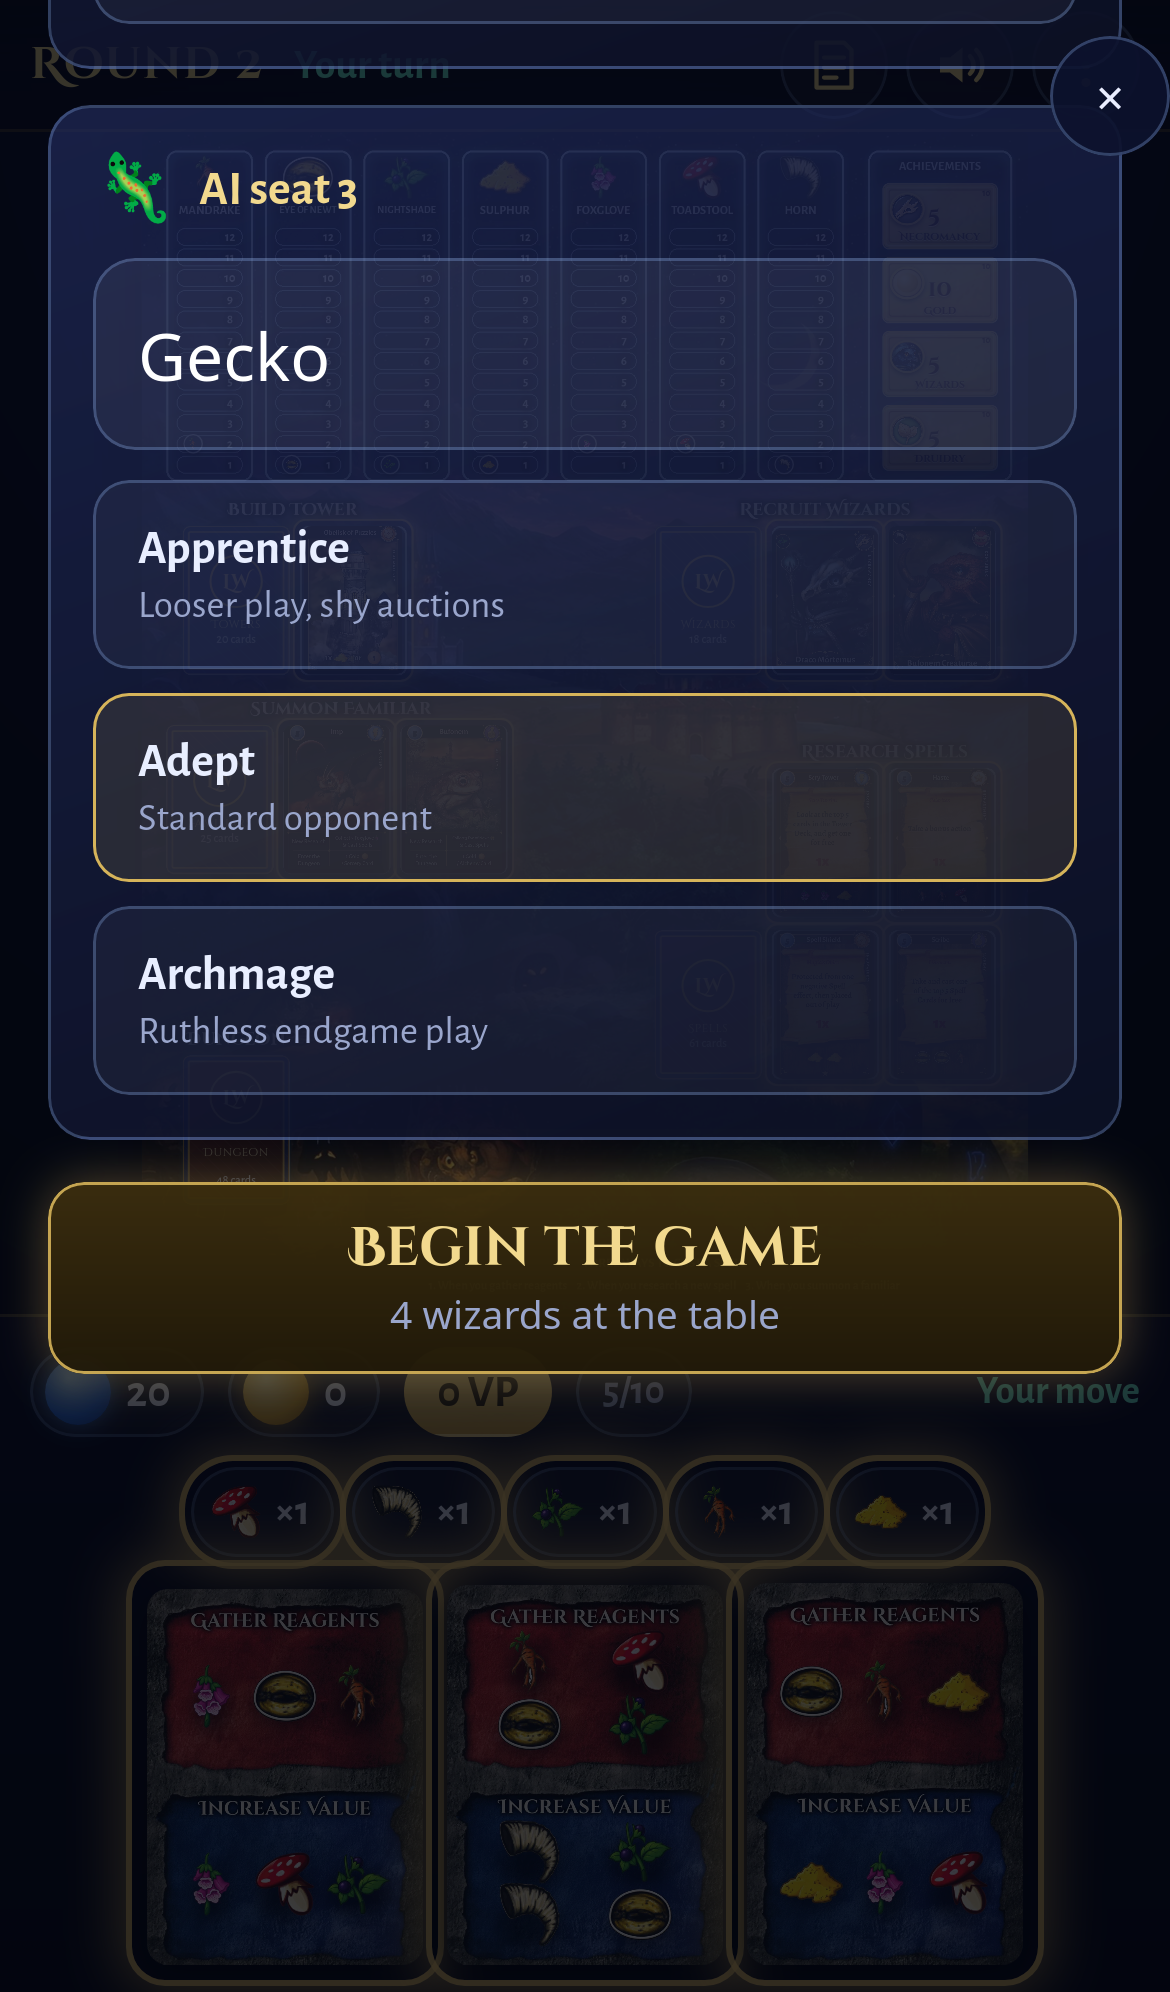
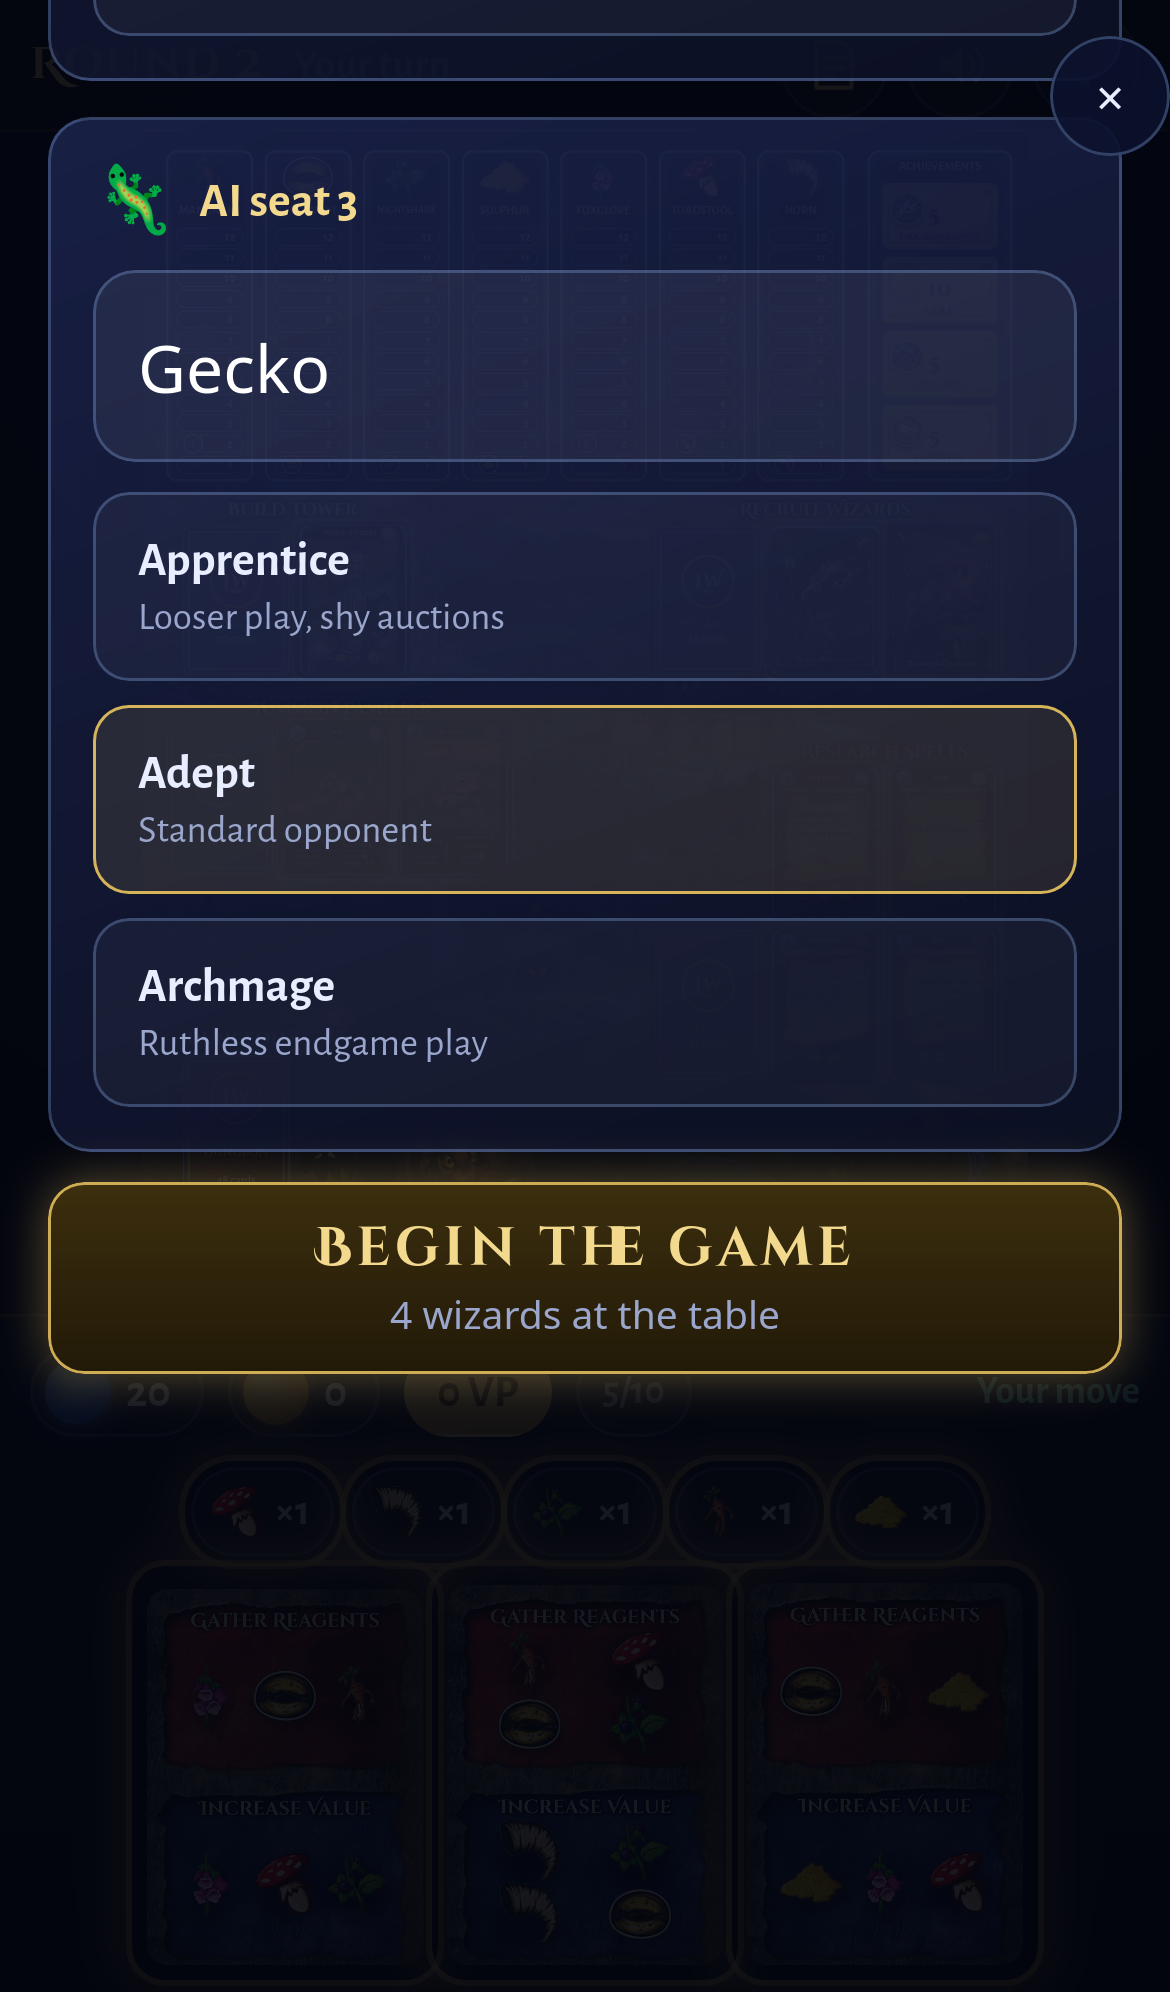
Improve setup backdrop and mobile action layout

diff --git a/app/css/app.css b/app/css/app.css
@@ -669,7 +669,7 @@ input[type=range].slider::-moz-range-thumb { width: 28px; height: 28px; border-r
   #toast { bottom: 24px; }
 }
 /* new-game setup wizard */
-.setup-wizard { justify-content: flex-start; padding: calc(12px + var(--safe-t)) 0 calc(20px + var(--clear-b)); gap: 10px; animation: setupIn .32s ease both; }
+.setup-wizard { justify-content: flex-start; padding: calc(12px + var(--safe-t)) 0 calc(20px + var(--clear-b)); gap: 10px; animation: setupIn .32s ease both; background: rgba(3, 5, 14, .92); }
 @keyframes setupIn { from { opacity: 0; transform: translateY(16px); } }
 .setup-steps { display: flex; gap: 8px; justify-content: center; margin: 0 16px 6px; }
 .setup-dot { width: 8px; height: 8px; border-radius: 50%; background: rgba(255, 255, 255, .2); transition: transform .2s, background .2s; }
@@ -679,12 +679,17 @@ input[type=range].slider::-moz-range-thumb { width: 28px; height: 28px; border-r
 .setup-name-input, .setup-ai-name { width: 100%; font-size: 22px; padding: 16px 14px; border-radius: 14px; border: 1px solid var(--line); background: rgba(255, 255, 255, .06); color: #fff; }
 .setup-quick { display: flex; flex-direction: column; gap: 4px; align-items: center; }
 .setup-action { display: flex; flex-direction: column; justify-content: center; gap: 4px; align-items: center; min-height: 64px; text-align: center; font-family: var(--display); }
-.setup-action-title { font-size: 18px; line-height: 1.1; }
+.setup-action-title { font-size: 18px; line-height: 1.1; letter-spacing: .09em; font-variant-ligatures: none; font-feature-settings: "liga" 0; }
 .setup-action-sub { font-family: system-ui, sans-serif; font-size: 13px; font-weight: 500; line-height: 1.2; color: var(--muted); }
-.setup-action-secondary, .setup-custom { background: rgba(255, 255, 255, .04); border-color: rgba(214, 180, 90, .75); color: var(--gold-hi); box-shadow: none; }
-.setup-action-primary { background: linear-gradient(180deg, rgba(60, 46, 14, .95), rgba(34, 26, 8, .95)); border-color: rgba(214, 180, 90, .9); color: var(--gold-hi); box-shadow: 0 0 16px rgba(255, 211, 107, .3); }
+.setup-action-secondary, .setup-custom { background: linear-gradient(180deg, #3c2e0e, #221a08); border-color: rgba(214, 180, 90, .85); color: var(--gold-hi); box-shadow: none; }
+.setup-action-primary { background: linear-gradient(180deg, #3c2e0e, #221a08); border-color: rgba(214, 180, 90, .95); color: var(--gold-hi); box-shadow: 0 0 16px rgba(255, 211, 107, .35); }
 .setup-quick-sub { font-size: 13px; font-weight: 500; color: var(--muted); }
 .setup-tiles { display: flex; flex-direction: column; gap: 10px; }
+.setup-wizard .setup-body { gap: 10px; }
+.setup-wizard .setup-tile { min-height: 100px; padding: 10px 12px; gap: 4px; }
+.setup-wizard .setup-seats { gap: 6px; font-size: 24px; }
+.setup-wizard .setup-tile-n { font-size: 18px; }
+.setup-wizard .setup-tile-sub { font-size: 13px; }
 .setup-tile { display: flex; flex-direction: column; align-items: center; gap: 8px; padding: 18px 14px; border-radius: 16px; border: 1px solid var(--line); background: rgba(255, 255, 255, .04); min-height: 120px; transition: border-color .2s, box-shadow .2s, transform .15s; }
 .setup-tile.on { border-color: var(--gold); box-shadow: 0 0 28px rgba(214, 180, 90, .35); transform: scale(1.01); }
 .setup-seats { display: flex; gap: 10px; font-size: 28px; }
